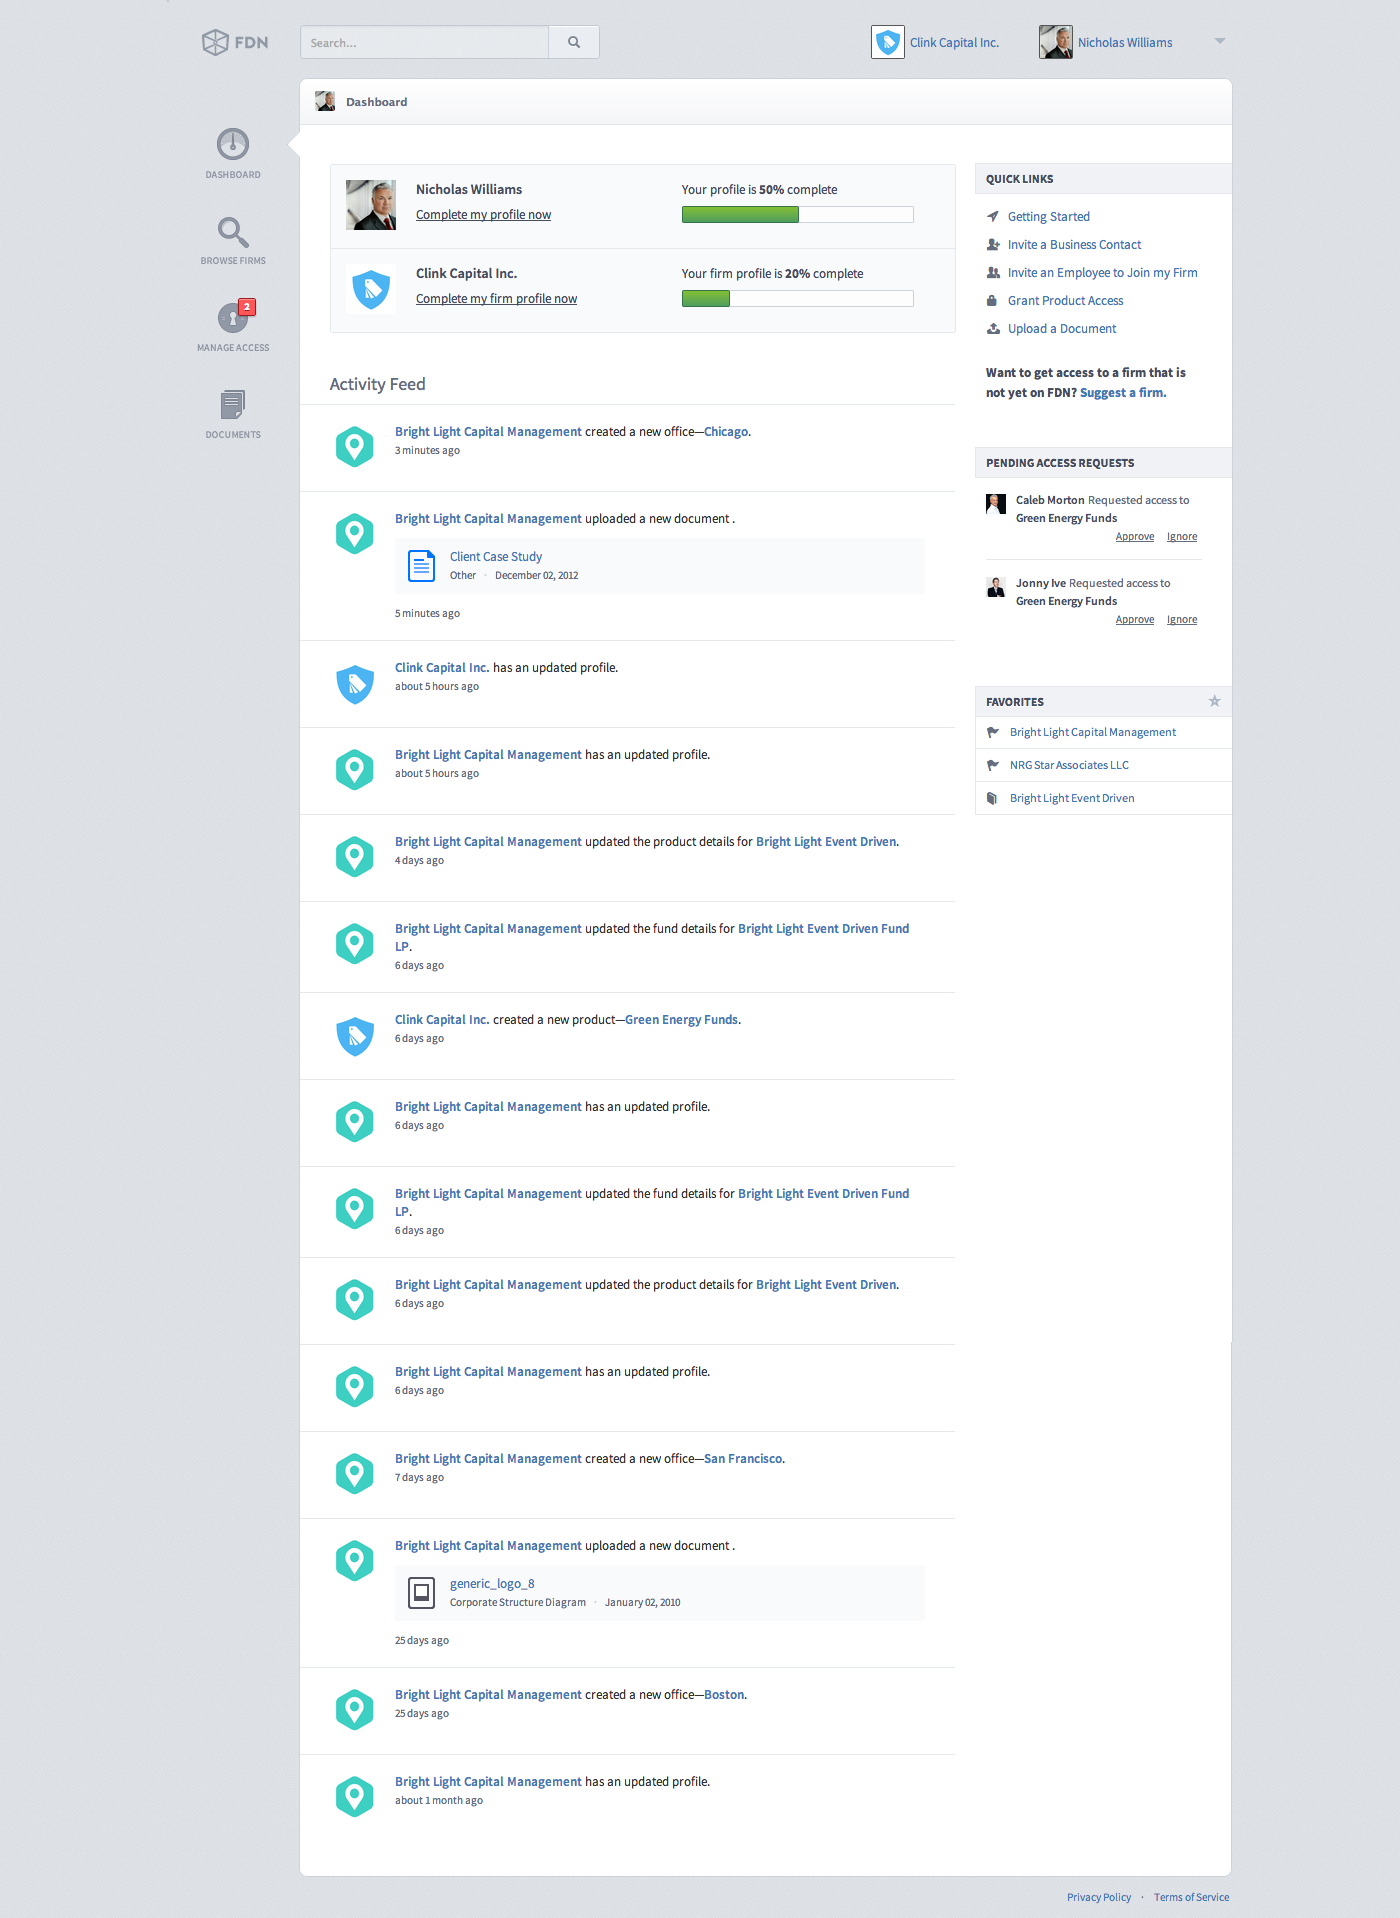
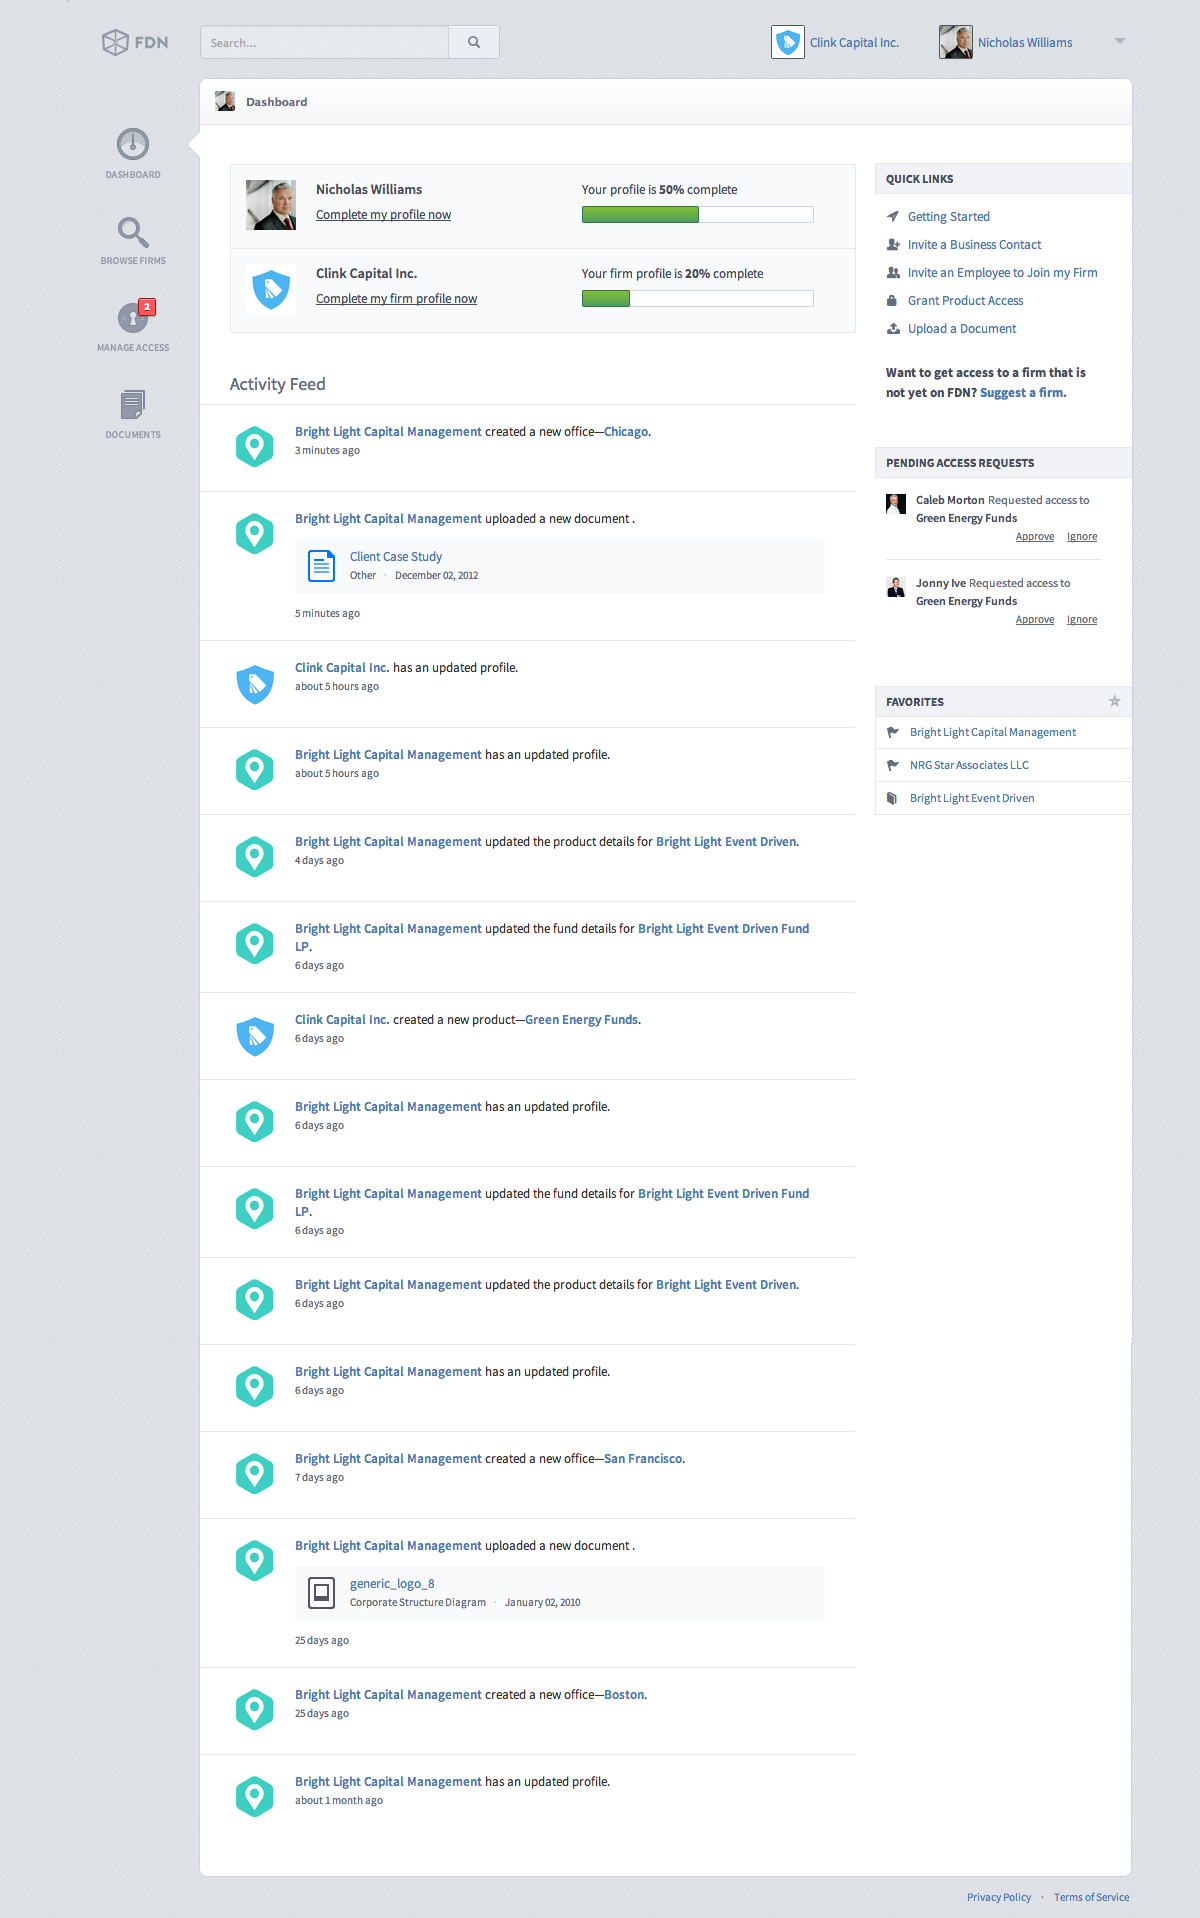
thinner fdn images. Fixed retina position.

diff --git a/stylesheets/application.css b/stylesheets/application.css
@@ -990,7 +990,7 @@ div.main-content.portfolio {
           position: relative; }
 
 .fdn-1, .fdn-2 {
-  left: -20.5%; }
+  left: -7.5%; }
 
 .fdn-3 {
   left: -27.6%; }
@@ -1001,7 +1001,11 @@ img.iora-overlay {
 
 @media only screen and (-moz-min-device-pixel-ratio: 2), only screen and (-o-min-device-pixel-ratio: 2 / 1), only screen and (-webkit-min-device-pixel-ratio: 2), only screen and (min-device-pixel-ratio: 2) {
   body.portfolio img {
-    width: 100%; }
+    width: 100%;
+    left: 0;
+    top: 0;
+    right: 0;
+    bottom: 0; }
   body.portfolio img.iora-overlay {
     position: static; } }
 @media only screen and (max-width: 1380px) {

diff --git a/stylesheets/sass/_portfolio.scss b/stylesheets/sass/_portfolio.scss
@@ -60,7 +60,7 @@ div.main-content.portfolio {
 // Portfolio Image Positioning
 //************************************************************************//
 .fdn-1, .fdn-2 {
-  left: -20.5%;
+  left: -7.5%;
 }
 
 .fdn-3 {
@@ -81,7 +81,12 @@ img.iora-overlay {
   body.portfolio {
    img {
      width: 100%;
+     left: 0;
+     top: 0;
+     right: 0;
+     bottom: 0;
    }
+
     img.iora-overlay {
       position: static;
     }
